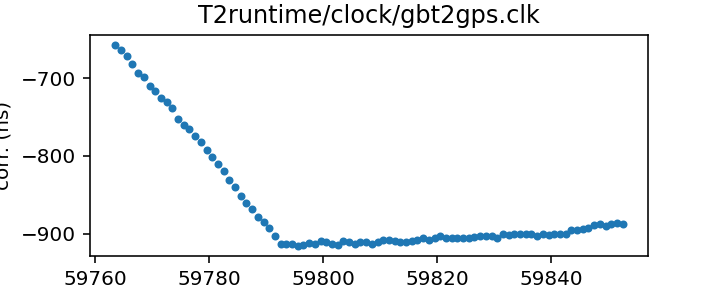
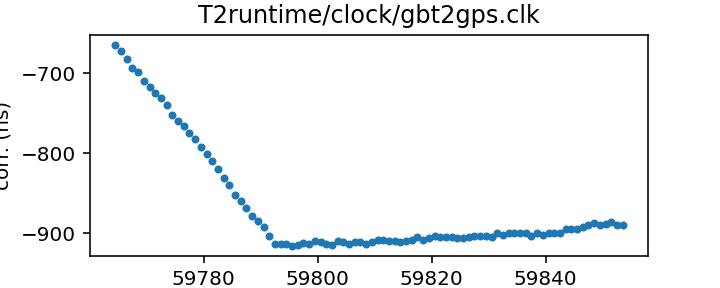
Routine gh-pages update from Github action Sun Oct  2 20:40:02 UTC 2022

diff --git a/status.md b/status.md
@@ -13,17 +13,17 @@ name of each clock file links to a page with more details.
 
 | Name | File | Corrections start | Corrections end | Last check date | Last check result 
 |:--- |:--- | --- | --- | --- |:--- 
-| [GPS to UTC](T2runtime/clock/gps2utc.clk.html) | `T2runtime/clock/gps2utc.clk` | 1993-01-01 MJD 48988.0 | 2022-08-28 MJD 59819.0 | 2022-10-01 | Unchanged 
-| [GPS to UTC (Combined Clock)](T2runtime/clock/gps2utc_cc.clk.html) | `T2runtime/clock/gps2utc_cc.clk` | 1993-01-01 MJD 48988.0 | 2022-08-28 MJD 59819.0 | 2022-10-01 | Unchanged 
-| [GPS to UTC (Corrected)](T2runtime/clock/gps2utc_c0p.clk.html) | `T2runtime/clock/gps2utc_c0p.clk` | 2010-12-29 MJD 55559.0 | 2022-08-28 MJD 59819.0 | 2022-10-01 | Unchanged 
-| [GBT](tempo/clock/time_gbt.dat.html) | `tempo/clock/time_gbt.dat` | 2000-12-31 MJD 51909.5 | 2022-09-30 MJD 59852.5 | 2022-10-01 | Updated 
-| [GBT (TEMPO2 converted from TEMPO)](T2runtime/clock/gbt2gps.clk.html) | `T2runtime/clock/gbt2gps.clk` | 2000-12-31 MJD 51909.5 | 2022-09-30 MJD 59852.5 | 2022-10-01 | Updated 
+| [GPS to UTC](T2runtime/clock/gps2utc.clk.html) | `T2runtime/clock/gps2utc.clk` | 1993-01-01 MJD 48988.0 | 2022-08-28 MJD 59819.0 | 2022-10-02 | Unchanged 
+| [GPS to UTC (Combined Clock)](T2runtime/clock/gps2utc_cc.clk.html) | `T2runtime/clock/gps2utc_cc.clk` | 1993-01-01 MJD 48988.0 | 2022-08-28 MJD 59819.0 | 2022-10-02 | Unchanged 
+| [GPS to UTC (Corrected)](T2runtime/clock/gps2utc_c0p.clk.html) | `T2runtime/clock/gps2utc_c0p.clk` | 2010-12-29 MJD 55559.0 | 2022-08-28 MJD 59819.0 | 2022-10-02 | Unchanged 
+| [GBT](tempo/clock/time_gbt.dat.html) | `tempo/clock/time_gbt.dat` | 2000-12-31 MJD 51909.5 | 2022-10-01 MJD 59853.5 | 2022-10-02 | Updated 
+| [GBT (TEMPO2 converted from TEMPO)](T2runtime/clock/gbt2gps.clk.html) | `T2runtime/clock/gbt2gps.clk` | 2000-12-31 MJD 51909.5 | 2022-10-01 MJD 59853.5 | 2022-10-02 | Updated 
 | [Jodrell Bank](T2runtime/clock/jb2gps.clk.html) | `T2runtime/clock/jb2gps.clk` | 2006-10-13 MJD 54021.4 | 2021-11-03 MJD 59521.0 | 2022-09-28 | Unchanged 
 | [Jodrell Bank Roach](T2runtime/clock/jbroach2jb.clk.html) | `T2runtime/clock/jbroach2jb.clk` | 2006-10-13 MJD 54021.4 | 2018-03-20 MJD 58197.6 | 2022-09-28 | Unchanged 
 | [Jodrell Bank DFB](T2runtime/clock/jbdfb2jb.clk.html) | `T2runtime/clock/jbdfb2jb.clk` | 2006-10-13 MJD 54021.4 | 2017-05-11 MJD 57884.0 | 2022-09-28 | Unchanged 
 | [Meerkat (observatory)](T2runtime/clock/mk2utc_observatory.clk.html) | `T2runtime/clock/mk2utc_observatory.clk` | 2019-01-01 MJD 58484.0 | 2022-08-28 MJD 59820.0 | 2022-09-26 | **Failed to download** 
-| [Leap seconds](tempo/clock/leap.sec.html) | `tempo/clock/leap.sec` | 1972-07-01 MJD 41499.0 | 2017-01-01 MJD 57754.0 | 2022-10-01 | Unchanged 
-| [UT1 table](tempo/clock/ut1.dat.html) | `tempo/clock/ut1.dat` | 1973-01-02 MJD 41684.0 | 2023-10-07 MJD 60224.0 | 2022-10-01 | Unchanged 
+| [Leap seconds](tempo/clock/leap.sec.html) | `tempo/clock/leap.sec` | 1972-07-01 MJD 41499.0 | 2017-01-01 MJD 57754.0 | 2022-10-02 | Unchanged 
+| [UT1 table](tempo/clock/ut1.dat.html) | `tempo/clock/ut1.dat` | 1973-01-02 MJD 41684.0 | 2023-10-07 MJD 60224.0 | 2022-10-02 | Unchanged 
 
 
 

diff --git a/T2runtime/clock/gbt2gps.clk.md b/T2runtime/clock/gbt2gps.clk.md
@@ -23,14 +23,13 @@ If questions arise about the conversion, contact Anne Archibald
 | Format | tempo2 |
 | Bogus last correction | False |
 | Clock file start | 2000-12-31 MJD 51909.5 |
-| Clock file end | 2022-09-30 MJD 59852.5 |
+| Clock file end | 2022-10-01 MJD 59853.5 |
 | Update interval (days) | 1 |
-| Last update attempt | 2022-10-01 |
+| Last update attempt | 2022-10-02 |
 | Last update result | Updated |
 
 Log entries from the last few update attempts:
 ```
-2022-09-22 20:39:25.013 - Updated
 2022-09-23 20:39:08.029 - Updated
 2022-09-24 20:37:27.397 - Updated
 2022-09-25 20:37:44.833 - Updated
@@ -40,12 +39,13 @@ Log entries from the last few update attempts:
 2022-09-29 20:43:05.712 - Updated
 2022-09-30 20:41:31.513 - Updated
 2022-10-01 20:40:09.113 - Updated
+2022-10-02 20:39:40.136 - Updated
 ```
 [Full log](https://raw.githubusercontent.com/ipta/pulsar-clock-corrections/main/log/T2runtime/clock/gbt2gps.clk.log)
 
 Leading comments from clock file:
 
-    # This file was automatically converted from tempo/clock/time_gbt.dat on 2022-10-01 20:40:09.044
+    # This file was automatically converted from tempo/clock/time_gbt.dat on 2022-10-02 20:39:40.068
 
 
 

diff --git a/tempo/clock/time_gbt.dat.md b/tempo/clock/time_gbt.dat.md
@@ -18,14 +18,13 @@ If questions arise, contact Ryan S. Lynch <rlynch@nrao.edu>.
 | Format | tempo |
 | Bogus last correction | False |
 | Clock file start | 2000-12-31 MJD 51909.5 |
-| Clock file end | 2022-09-30 MJD 59852.5 |
+| Clock file end | 2022-10-01 MJD 59853.5 |
 | Update interval (days) | 1 |
-| Last update attempt | 2022-10-01 |
+| Last update attempt | 2022-10-02 |
 | Last update result | Updated |
 
 Log entries from the last few update attempts:
 ```
-2022-09-22 20:39:24.936 - Updated
 2022-09-23 20:39:07.958 - Updated
 2022-09-24 20:37:27.318 - Updated
 2022-09-25 20:37:44.747 - Updated
@@ -35,6 +34,7 @@ Log entries from the last few update attempts:
 2022-09-29 20:43:05.621 - Updated
 2022-09-30 20:41:31.444 - Updated
 2022-10-01 20:40:09.042 - Updated
+2022-10-02 20:39:40.066 - Updated
 ```
 [Full log](https://raw.githubusercontent.com/ipta/pulsar-clock-corrections/main/log/tempo/clock/time_gbt.dat.log)
 

diff --git a/T2runtime/clock/gps2utc_c0p.clk.md b/T2runtime/clock/gps2utc_c0p.clk.md
@@ -30,12 +30,11 @@ about the BIPM's published corrections, contact <tai@bipm.org>.
 | Clock file start | 2010-12-29 MJD 55559.0 |
 | Clock file end | 2022-08-28 MJD 59819.0 |
 | Update interval (days) | 1 |
-| Last update attempt | 2022-10-01 |
+| Last update attempt | 2022-10-02 |
 | Last update result | Unchanged |
 
 Log entries from the last few update attempts:
 ```
-2022-09-22 20:39:24.144 - Unchanged
 2022-09-23 20:39:07.568 - Unchanged
 2022-09-24 20:37:25.918 - Unchanged
 2022-09-25 20:37:43.696 - Unchanged
@@ -45,6 +44,7 @@ Log entries from the last few update attempts:
 2022-09-29 20:43:04.699 - Unchanged
 2022-09-30 20:41:30.626 - Unchanged
 2022-10-01 20:40:08.252 - Unchanged
+2022-10-02 20:39:39.706 - Unchanged
 ```
 [Full log](https://raw.githubusercontent.com/ipta/pulsar-clock-corrections/main/log/T2runtime/clock/gps2utc_c0p.clk.log)
 

diff --git a/T2runtime/clock/gps2utc_cc.clk.md b/T2runtime/clock/gps2utc_cc.clk.md
@@ -29,12 +29,11 @@ about the BIPM's published corrections, contact <tai@bipm.org>.
 | Clock file start | 1993-01-01 MJD 48988.0 |
 | Clock file end | 2022-08-28 MJD 59819.0 |
 | Update interval (days) | 1 |
-| Last update attempt | 2022-10-01 |
+| Last update attempt | 2022-10-02 |
 | Last update result | Unchanged |
 
 Log entries from the last few update attempts:
 ```
-2022-09-22 20:39:24.134 - Unchanged
 2022-09-23 20:39:07.558 - Unchanged
 2022-09-24 20:37:25.906 - Unchanged
 2022-09-25 20:37:43.682 - Unchanged
@@ -44,6 +43,7 @@ Log entries from the last few update attempts:
 2022-09-29 20:43:04.685 - Unchanged
 2022-09-30 20:41:30.615 - Unchanged
 2022-10-01 20:40:08.241 - Unchanged
+2022-10-02 20:39:39.695 - Unchanged
 ```
 [Full log](https://raw.githubusercontent.com/ipta/pulsar-clock-corrections/main/log/T2runtime/clock/gps2utc_cc.clk.log)
 

diff --git a/T2runtime/clock/gps2utc.clk.md b/T2runtime/clock/gps2utc.clk.md
@@ -32,12 +32,11 @@ about the BIPM's published corrections, contact <tai@bipm.org>.
 | Clock file start | 1993-01-01 MJD 48988.0 |
 | Clock file end | 2022-08-28 MJD 59819.0 |
 | Update interval (days) | 1 |
-| Last update attempt | 2022-10-01 |
+| Last update attempt | 2022-10-02 |
 | Last update result | Unchanged |
 
 Log entries from the last few update attempts:
 ```
-2022-09-22 20:39:24.102 - Unchanged
 2022-09-23 20:39:07.525 - Unchanged
 2022-09-24 20:37:25.869 - Unchanged
 2022-09-25 20:37:43.634 - Unchanged
@@ -47,6 +46,7 @@ Log entries from the last few update attempts:
 2022-09-29 20:43:04.641 - Unchanged
 2022-09-30 20:41:30.583 - Unchanged
 2022-10-01 20:40:08.209 - Unchanged
+2022-10-02 20:39:39.663 - Unchanged
 ```
 [Full log](https://raw.githubusercontent.com/ipta/pulsar-clock-corrections/main/log/T2runtime/clock/gps2utc.clk.log)
 

diff --git a/tempo/clock/leap.sec.md b/tempo/clock/leap.sec.md
@@ -21,12 +21,11 @@ If there are any questions, contact Anne Archibald
 | File start | 1972-07-01 MJD 41499.0 |
 | File end | 2017-01-01 MJD 57754.0 |
 | Update interval (days) | 0 |
-| Last update attempt | 2022-10-01 |
+| Last update attempt | 2022-10-02 |
 | Last update result | Unchanged |
 
 Log entries from the last few update attempts:
 ```
-2022-09-22 20:39:28.002 - Unchanged
 2022-09-23 20:39:08.062 - Unchanged
 2022-09-24 20:37:27.442 - Unchanged
 2022-09-25 20:37:44.874 - Unchanged
@@ -36,5 +35,6 @@ Log entries from the last few update attempts:
 2022-09-29 20:43:08.861 - Unchanged
 2022-09-30 20:41:31.547 - Unchanged
 2022-10-01 20:40:09.143 - Unchanged
+2022-10-02 20:39:40.169 - Unchanged
 ```
 [Full log](https://raw.githubusercontent.com/ipta/pulsar-clock-corrections/main/log/tempo/clock/leap.sec.log)

diff --git a/tempo/clock/ut1.dat.md b/tempo/clock/ut1.dat.md
@@ -30,12 +30,11 @@ If there are any questions, contact Anne Archibald
 | File start | 1973-01-02 MJD 41684.0 |
 | File end | 2023-10-07 MJD 60224.0 |
 | Update interval (days) | 0 |
-| Last update attempt | 2022-10-01 |
+| Last update attempt | 2022-10-02 |
 | Last update result | Unchanged |
 
 Log entries from the last few update attempts:
 ```
-2022-09-22 20:39:37.335 - Unchanged
 2022-09-23 20:39:15.877 - Updated
 2022-09-24 20:37:44.518 - Unchanged
 2022-09-25 20:37:57.318 - Unchanged
@@ -45,5 +44,6 @@ Log entries from the last few update attempts:
 2022-09-29 20:43:21.453 - Updated
 2022-09-30 20:41:42.036 - Unchanged
 2022-10-01 20:40:19.734 - Unchanged
+2022-10-02 20:39:48.403 - Unchanged
 ```
 [Full log](https://raw.githubusercontent.com/ipta/pulsar-clock-corrections/main/log/tempo/clock/ut1.dat.log)
